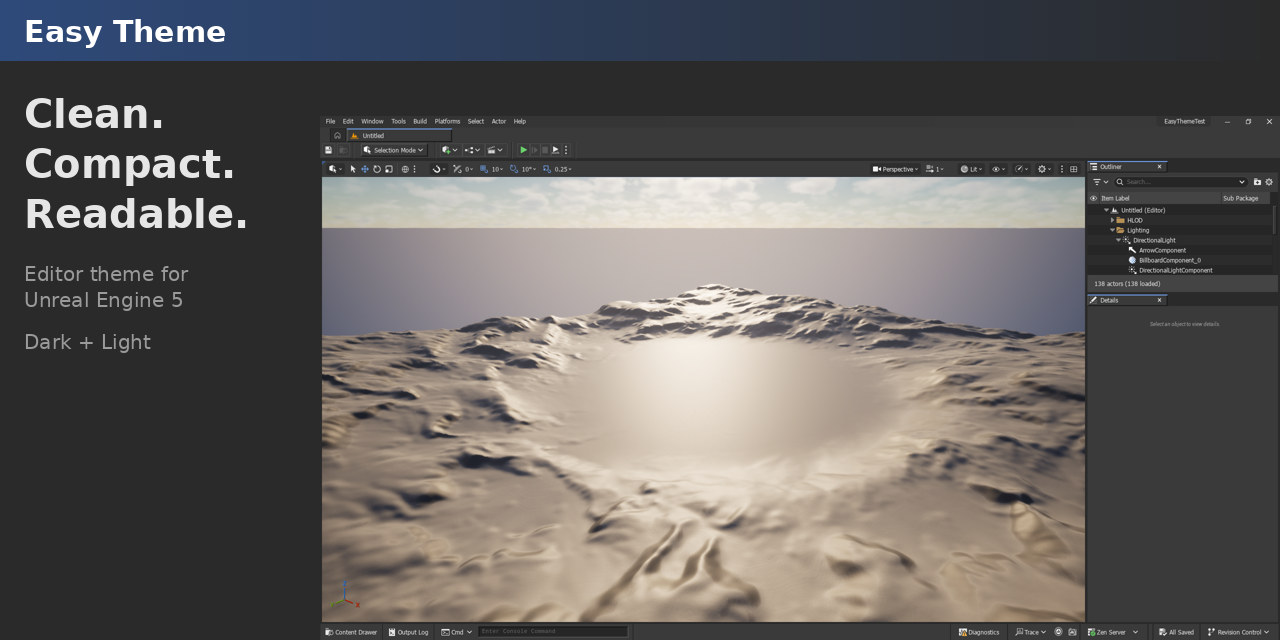
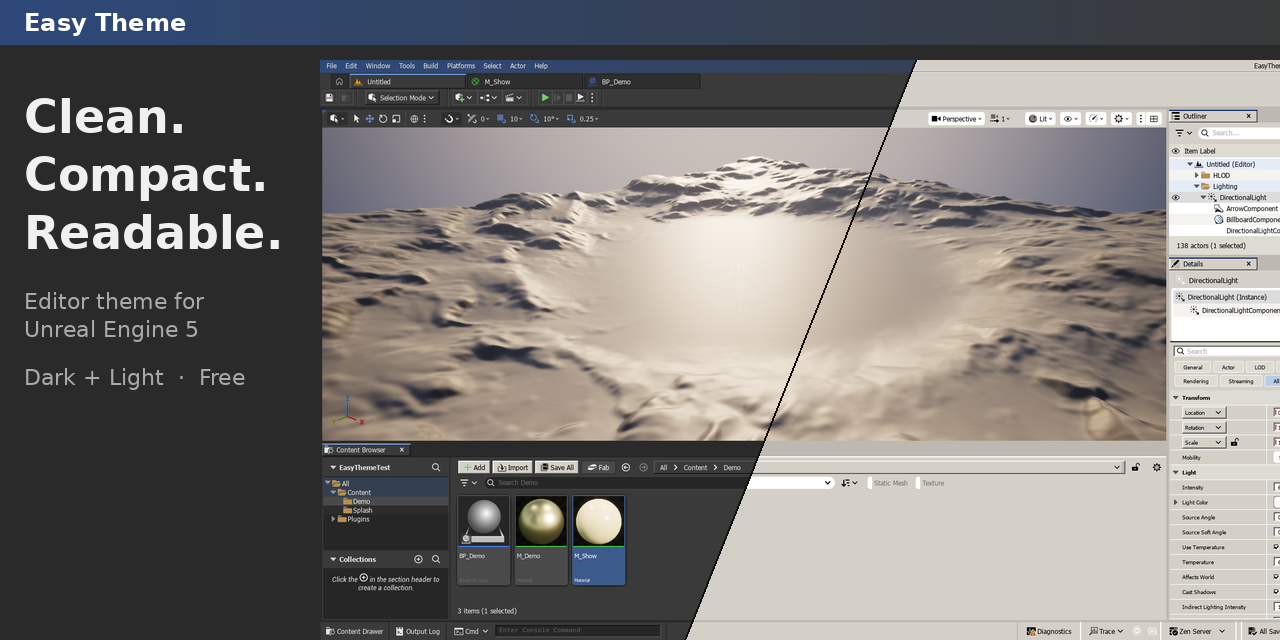
Public page, release notes, download instructions

diff --git a/docs/index.html b/docs/index.html
@@ -3,14 +3,44 @@
 <head>
 <meta charset="utf-8">
 <meta name="viewport" content="width=device-width, initial-scale=1">
-<title>Easy Theme for Unreal Engine 5</title>
-<meta name="description" content="Clean, compact, high-clarity editor theme for Unreal Engine 5. Square controls, crisp 1-pixel frames, readable text in every panel. Dark by default, Light included.">
-<meta name="keywords" content="Unreal Engine, UE5, editor theme, dark theme, light theme, compact UI, Slate, editor plugin">
+<title>Easy Theme for Unreal Engine 5 – free editor theme, Dark and Light</title>
+<meta name="description" content="Free, open-source editor theme for Unreal Engine 5. Clean, compact, high-clarity: square controls, crisp 1-pixel frames, readable text in every panel. Dark by default, Light included.">
+<meta name="keywords" content="Unreal Engine 5, UE5, UE 5.8, Unreal Editor theme, editor skin, dark theme, light theme, classic theme, compact UI, Slate style, editor plugin, free plugin, open source, readability">
+<meta name="author" content="MapModelers">
+<link rel="canonical" href="https://mapmodelers.github.io/ue5-theme-easy/">
+<link rel="icon" type="image/png" href="media/icon.png">
+<meta name="theme-color" content="#2a2a2a">
+<meta property="og:type" content="website">
+<meta property="og:url" content="https://mapmodelers.github.io/ue5-theme-easy/">
 <meta property="og:title" content="Easy Theme for Unreal Engine 5">
-<meta property="og:description" content="Clean. Compact. Readable. Dark by default, Light included.">
-<meta property="og:image" content="media/social.png">
+<meta property="og:description" content="Clean. Compact. Readable. Free editor theme, Dark by default, Light included.">
+<meta property="og:image" content="https://mapmodelers.github.io/ue5-theme-easy/media/social.png">
+<meta property="og:image:width" content="1280">
+<meta property="og:image:height" content="640">
+<meta property="og:image:alt" content="Unreal Editor with Easy Theme">
+<meta name="twitter:card" content="summary_large_image">
+<meta name="twitter:title" content="Easy Theme for Unreal Engine 5">
+<meta name="twitter:description" content="Clean. Compact. Readable. Free editor theme, Dark by default, Light included.">
+<meta name="twitter:image" content="https://mapmodelers.github.io/ue5-theme-easy/media/social.png">
+<script type="application/ld+json">
+{
+  "@context": "https://schema.org",
+  "@type": "SoftwareApplication",
+  "name": "Easy Theme for Unreal Engine 5",
+  "applicationCategory": "DeveloperApplication",
+  "operatingSystem": "Windows",
+  "softwareVersion": "0.2.0",
+  "description": "Clean, compact, high-clarity editor theme for Unreal Engine 5. Dark by default, Light included.",
+  "url": "https://mapmodelers.github.io/ue5-theme-easy/",
+  "downloadUrl": "https://github.com/mapmodelers/ue5-theme-easy/releases/latest",
+  "license": "https://opensource.org/licenses/MIT",
+  "image": "https://mapmodelers.github.io/ue5-theme-easy/media/social.png",
+  "author": { "@type": "Organization", "name": "MapModelers" },
+  "offers": { "@type": "Offer", "price": "0", "priceCurrency": "USD" }
+}
+</script>
 <style>
-  :root { --face:#2a2a2a; --panel:#3a3a3a; --hi:#5a5a5a; --lo:#101010; --ink:#e6e6e6; --dim:#9a9a9a; --blue:#2e4a7a; --accent:#6f9fe8; }
+  :root { --face:#2a2a2a; --panel:#3a3a3a; --hi:#5a5a5a; --lo:#101010; --ink:#e6e6e6; --dim:#9a9a9a; --blue:#2e4a7a; }
   * { box-sizing:border-box; }
   body { margin:0; background:var(--face); color:var(--ink); font:16px/1.55 Tahoma, Verdana, "Segoe UI", sans-serif; }
   .win { max-width:1080px; margin:32px auto; background:var(--panel);
@@ -18,49 +48,62 @@
   .title { background:linear-gradient(90deg,var(--blue),var(--panel)); padding:6px 12px; font-weight:bold; font-size:14px; }
   .body { padding:28px 32px 36px; }
   h1 { font-size:34px; margin:0 0 6px; }
+  h2 { font-size:20px; margin:0 0 10px; }
   .lead { color:var(--dim); margin:0 0 24px; font-size:18px; }
-  .shot { display:block; width:100%; border:2px solid; border-color:var(--lo) var(--hi) var(--hi) var(--lo); margin:0 0 24px; }
-  .grid { display:grid; grid-template-columns:1fr 1fr; gap:16px; }
-  ul { padding-left:20px; } li { margin:6px 0; } b { color:#fff; }
+  .shot { display:block; width:100%; height:auto; border:2px solid; border-color:var(--lo) var(--hi) var(--hi) var(--lo); margin:0 0 24px; }
+  .grid { display:grid; grid-template-columns:1fr 1fr; gap:0 24px; }
+  ul, ol { padding-left:20px; margin:0; } li { margin:6px 0; } b { color:#fff; }
+  code { font-family:Consolas, monospace; font-size:14px; background:#2a2a2a; padding:1px 4px; }
+  a { color:#9cc0f5; }
   .btn { display:inline-block; padding:6px 16px; color:var(--ink); text-decoration:none; background:var(--panel);
-         border:2px solid; border-color:var(--hi) var(--lo) var(--lo) var(--hi); margin-right:8px; }
+         border:2px solid; border-color:var(--hi) var(--lo) var(--lo) var(--hi); margin:0 8px 8px 0; }
+  .btn.main { background:var(--blue); font-weight:bold; }
   .btn:active { border-color:var(--lo) var(--hi) var(--hi) var(--lo); }
   .etch { border:0; border-top:1px solid var(--lo); border-bottom:1px solid var(--hi); margin:28px 0; }
   .small { color:var(--dim); font-size:13px; }
-  @media (max-width:720px) { .grid { grid-template-columns:1fr; } .body { padding:20px; } }
+  .cap { color:var(--dim); margin:-14px 0 28px; font-size:15px; }
+  .grid .shot { margin-bottom:24px; }
+  @media (max-width:720px) { .grid { grid-template-columns:1fr; } .body { padding:20px; } h1 { font-size:26px; } }
 </style>
 </head>
 <body>
 <div class="win">
   <div class="title">Easy Theme</div>
-  <div class="body">
+  <main class="body">
     <h1>Easy Theme for Unreal Engine 5</h1>
-    <p class="lead">Clean. Compact. Readable. Dark by default, Light included.</p>
-    <a class="btn" href="https://github.com/mapmodelers/ue5-theme-easy">GitHub</a>
+    <p class="lead">Clean. Compact. Readable. Dark by default, Light included. Free and open source.</p>
+    <a class="btn main" href="https://github.com/mapmodelers/ue5-theme-easy/releases/latest">Download</a>
+    <a class="btn" href="https://github.com/mapmodelers/ue5-theme-easy">Source on GitHub</a>
     <a class="btn" href="https://github.com/mapmodelers/ue5-theme-easy/issues">Support</a>
     <hr class="etch">
-    <img class="shot" src="media/dark.png" alt="Unreal Editor with Easy Theme, Dark">
+
+    <img class="shot" src="media/dark.png" width="1920" height="1048" alt="Unreal Editor with Easy Theme, Dark">
+    <p class="cap">Dark, the default. Square controls, crisp 1-pixel frames, compact toolbars.</p>
+
+    <img class="shot" src="media/light.png" width="1920" height="1048" alt="Unreal Editor with Easy Theme, Light">
+    <p class="cap">Light, switched live from Window &gt; Easy Theme.</p>
+
     <div class="grid">
-      <div>
-        <ul>
-          <li><b>Dark and Light</b>, switched live from Window &gt; Easy Theme.</li>
-          <li><b>Compact</b>: thinner tabs and toolbars, more room for work.</li>
-          <li><b>Pixel-exact</b>: square, bevelled controls with no blur.</li>
-          <li><b>Readable everywhere</b>: no stray dark panels or invisible text.</li>
-        </ul>
-      </div>
-      <div>
-        <ul>
-          <li><b>Graphs follow the mode</b>: Blueprint and Material.</li>
-          <li><b>Slim title bar</b>: no oversized logo.</li>
-          <li><b>Optional 3-pane layout</b> in Window &gt; Load Layout.</li>
-          <li><b>Editor-only</b>: no engine changes; disable to remove.</li>
-        </ul>
-      </div>
+      <img class="shot" src="media/graph-light.png" width="1505" height="693" alt="Material graph, Light Graphs">
+      <img class="shot" src="media/graph-dark.png" width="1505" height="693" alt="Material graph, Dark">
     </div>
-    <img class="shot" src="media/light.png" alt="Unreal Editor with Easy Theme, Light">
-    <p class="small">Unreal Engine 5.8, Windows. Unreal and Unreal Engine are trademarks of Epic Games, Inc. Not affiliated with or endorsed by Epic Games.</p>
-  </div>
+    <p class="cap">Graphs follow the mode. Your grid colours are always restored.</p>
+
+    <div class="grid">
+      <img class="shot" src="media/toolbar-dark.png" width="1120" height="280" alt="Toolbar, Dark">
+      <img class="shot" src="media/toolbar-light.png" width="1120" height="280" alt="Toolbar, Light">
+    </div>
+    <p class="cap">Pixel-exact bevels, no blur.</p>
+
+    <img class="shot" src="media/blueprint-dark.png" width="1920" height="1048" alt="Blueprint editor with Easy Theme, Dark">
+    <p class="cap">Every editor, every panel.</p>
+    <hr class="etch">
+
+    <p><b>Install:</b> unzip the download into <code>YourProject/Plugins/</code> and start the editor. Options: <b>Window &gt; Easy Theme</b>. Editor-only, no telemetry.</p>
+
+    <p class="small">Unreal Engine 5.8, Windows (Win64). MIT licence. © 2026 Adrien Lelievre (MapModelers).<br>
+    Unreal and Unreal Engine are trademarks of Epic Games, Inc. Not affiliated with or endorsed by Epic Games.</p>
+  </main>
 </div>
 </body>
 </html>

diff --git a/Plugin/EasyTheme/Source/EasyTheme/Private/EasyThemeModule.cpp b/Plugin/EasyTheme/Source/EasyTheme/Private/EasyThemeModule.cpp
@@ -30,6 +30,7 @@
 #include "Framework/Docking/TabManager.h"
 #include "Framework/Docking/LayoutService.h"
 #include "Widgets/SWindow.h"
+#include "Widgets/Docking/SDockTab.h"
 #include "Rendering/SlateRenderer.h"
 #include "Containers/Ticker.h"
 #include "HAL/FileManager.h"
@@ -463,6 +464,19 @@ namespace EasyTheme
 			}
 		}
 		Note(FString::Printf(TEXT("OK   light-text styles %s: %d"), GDark ? TEXT("restored") : TEXT("darkened"), Fixed));
+	}
+
+	// Name fields (Details header, inline rename) draw their resting text in the theme's White,
+	// which stays white in Light. Those go to the text colour in Light and back in Dark.
+	static TMap<FTextBlockStyle*, FSlateColor> GWhiteText;
+	static void InkWhiteText(FTextBlockStyle& T, const FSlateColor& Ink)
+	{
+		if (!GWhiteText.Contains(&T))
+		{
+			if (!(T.ColorAndOpacity == FSlateColor(EStyleColor::White))) { return; }
+			GWhiteText.Add(&T, T.ColorAndOpacity);
+		}
+		T.ColorAndOpacity = GDark ? GWhiteText[&T] : Ink;
 	}
 
 	static void ApplyRemaps()
@@ -960,7 +974,7 @@ namespace EasyTheme
 					if (S->HasWidgetStyle<FInlineEditableTextBlockStyle>(Key))
 					{
 						FInlineEditableTextBlockStyle* T = const_cast<FInlineEditableTextBlockStyle*>(&S->GetWidgetStyle<FInlineEditableTextBlockStyle>(Key));
-						Done.Add(T, &bNew); if (!bNew) { InkBox(T->EditableTextBoxStyle); ++Swept; }
+						Done.Add(T, &bNew); if (!bNew) { InkBox(T->EditableTextBoxStyle); InkWhiteText(T->TextStyle, Ink); ++Swept; }
 					}
 					if (S->HasWidgetStyle<FEditableTextStyle>(Key))
 					{
@@ -974,7 +988,8 @@ namespace EasyTheme
 					}
 				}
 			}
-			Note(FString::Printf(TEXT("OK   text-entry styles swept: %d"), Swept));
+			PatchStyle<FTextBlockStyle>(Sets, TEXT("DetailsView.ConstantTextBlockStyle"), [&](FTextBlockStyle& T) { InkWhiteText(T, Ink); });
+			Note(FString::Printf(TEXT("OK   text-entry styles swept: %d (white name text: %d)"), Swept, GWhiteText.Num()));
 
 			// Search matches: classic find highlight (pale yellow, black text; amber, white text in Dark).
 			const FSlateBrush Hilite = FSlateColorBrush(Hex(GDark ? TEXT("7A6418") : TEXT("FFE680")));
@@ -1502,7 +1517,7 @@ namespace EasyTheme
 	// Same route as Window > Load Layout: copy the layout over the editor layout file, then rebuild.
 	static void UsePanesLayout()
 	{
-		WriteUserLayout(false);
+		WriteUserLayout(true);   // always the current preset, never a file left by an older version
 		const FString Target = PanesLayoutFile();
 		if (!IFileManager::Get().FileExists(*Target)) { Note(TEXT("MISS 3-pane layout file")); return; }
 		if (FLayoutSaveRestore::DuplicateConfig(Target, GEditorLayoutIni))
@@ -1717,6 +1732,32 @@ public:
 			{
 				EasyTheme::SetMode(Args.Num() > 0 ? Args[0] != TEXT("0") : !EasyTheme::GDark);
 			})));
+		// Dev-only helpers for staging screenshots (test project).
+		if (EasyTheme::GDev)
+		{
+			Cmds.Add(IConsoleManager::Get().RegisterConsoleCommand(
+				TEXT("EasyTheme.Tab"),
+				TEXT("Easy Theme (dev): EasyTheme.Tab <LevelEditorTabId> [close]"),
+				FConsoleCommandWithArgsDelegate::CreateLambda([](const TArray<FString>& Args)
+				{
+					if (Args.Num() == 0 || !FModuleManager::Get().IsModuleLoaded(TEXT("LevelEditor"))) { return; }
+					TSharedPtr<FTabManager> TM = FModuleManager::GetModuleChecked<FLevelEditorModule>(TEXT("LevelEditor")).GetLevelEditorTabManager();
+					if (!TM.IsValid()) { return; }
+					const FTabId Id = FTabId(FName(*Args[0]));
+					if (Args.Num() > 1 && Args[1] == TEXT("close"))
+					{
+						if (TSharedPtr<SDockTab> T = TM->FindExistingLiveTab(Id)) { T->RequestCloseTab(); }
+					}
+					else
+					{
+						TM->TryInvokeTab(Id);
+					}
+				})));
+			Cmds.Add(IConsoleManager::Get().RegisterConsoleCommand(
+				TEXT("EasyTheme.Panes"),
+				TEXT("Easy Theme (dev): apply the 3-pane layout"),
+				FConsoleCommandDelegate::CreateLambda([]() { EasyTheme::UsePanesLayout(); })));
+		}
 		Cmds.Add(IConsoleManager::Get().RegisterConsoleCommand(
 			TEXT("EasyTheme.Layout"),
 			TEXT("Easy Theme: rewrite the 3-pane user layout"),

diff --git a/README.md b/README.md
@@ -1,6 +1,6 @@
 # Easy Theme for Unreal Engine 5
 
-[Presentation page](https://mapmodelers.github.io/ue5-theme-easy/) · Free on Fab (coming) · MIT
+[Download](https://github.com/mapmodelers/ue5-theme-easy/releases/latest) · [Presentation page](https://mapmodelers.github.io/ue5-theme-easy/) · Free on Fab (coming) · MIT
 
 **Clean, compact, high-clarity editor theme. Dark by default, Light included.**
 
@@ -10,7 +10,7 @@ Easy Theme restyles the whole Unreal Editor in a calm, classic desktop style: sq
 
 ## Features
 
-- **Dark and Light.** Dark by default, Light one click away. The switch is live, with no restart needed.
+- **Dark and Light.** Dark by default, Light one click away. The switch is live.
 - **Compact.** Thinner tabs and toolbars, 16 px toolbar icons and tighter padding fit more content on screen.
 - **Pixel-exact.** Bevelled buttons, sunken fields, square tabs, checkboxes and scrollbars, with no blurred edges.
 - **Readable everywhere.** Fixes the editor's hard-coded colours (Place Actors, Content Browser, search fields and more) so no panel stays dark or turns unreadable.
@@ -25,10 +25,19 @@ Easy Theme restyles the whole Unreal Editor in a calm, classic desktop style: sq
 |---|---|
 | ![](docs/media/toolbar-dark.png) | ![](docs/media/toolbar-light.png) |
 
+| Light Graphs | Dark |
+|---|---|
+| ![](docs/media/graph-light.png) | ![](docs/media/graph-dark.png) |
+
+![Blueprint editor, Dark](docs/media/blueprint-dark.png)
+
 ## Install
 
-1. Copy `Plugin/EasyTheme` into your project's `Plugins` folder, or into `Engine/Plugins/Marketplace` for all projects.
-2. Start the editor. The theme applies at startup.
+1. Download `EasyTheme-0.2.0-UE5.8-Win64.zip` from [Releases](https://github.com/mapmodelers/ue5-theme-easy/releases/latest). It is prebuilt: no compiler needed.
+2. Unzip it into your project's `Plugins` folder (`MyProject/Plugins/EasyTheme`), or into `Engine/Plugins/Marketplace` for every project.
+3. Start the editor. The theme applies at startup.
+
+From source: copy `Plugin/EasyTheme` instead (Visual Studio required, the editor compiles it on first launch).
 
 ## Use
 

diff --git a/_tools/release-notes.md b/_tools/release-notes.md
@@ -1,0 +1,12 @@
+Clean, compact, high-clarity editor theme for Unreal Engine 5. Dark by default, Light included.
+
+**Install:** unzip `EasyTheme-0.2.0-UE5.8-Win64.zip` into `YourProject/Plugins/` (or `Engine/Plugins/Marketplace/` for every project), then start the editor. Prebuilt for UE 5.8, Win64. Options: **Window > Easy Theme**.
+
+**In 0.2.0**
+- Dark (default) and Light, switched live.
+- Compact density, pixel-exact bevels and frames, Tahoma UI font.
+- Readability fixes across the editor: text fields, search highlight, Content Browser, Place Actors.
+- Light Graphs: light canvas for Blueprint and Material graphs in Light mode; your grid colours are always restored.
+- Slim title bar, optional 3-pane layout, Report an Issue, Remove Saved Settings.
+
+Editor-only. No network access, no telemetry. MIT.

diff --git a/Plugin/EasyTheme/README.md b/Plugin/EasyTheme/README.md
@@ -3,6 +3,7 @@
 Clean, compact, high-clarity editor theme for Unreal Engine 5. Dark by default, Light included.
 
 - Switch: Window > Easy Theme > Dark / Light (live). Console: `EasyTheme.Dark 1` / `0`.
+- Light graphs (Light mode): Window > Easy Theme > Light Graphs. Your grid colours are restored when off.
 - Rebuild every panel: Window > Easy Theme > Refresh UI.
 - Optional layout: Window > Easy Theme > Use 3-Pane Layout.
 - Uninstall: Window > Easy Theme > Remove Saved Settings, then disable the plugin (Edit > Plugins) or remove it in the Epic Games Launcher. Editor-only, no engine files changed.
